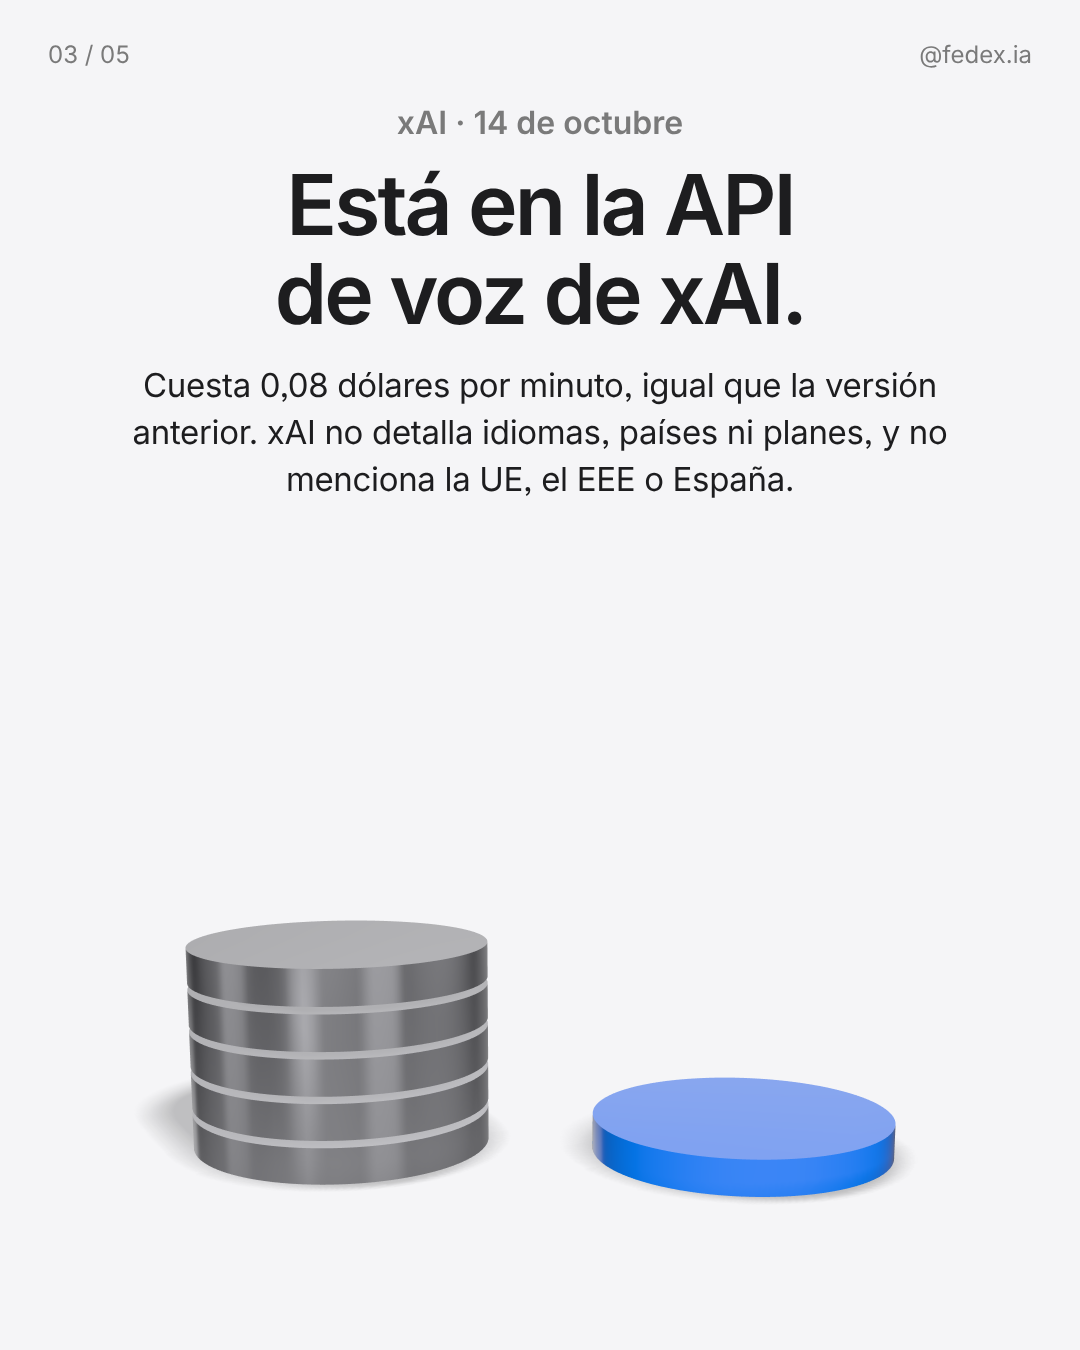
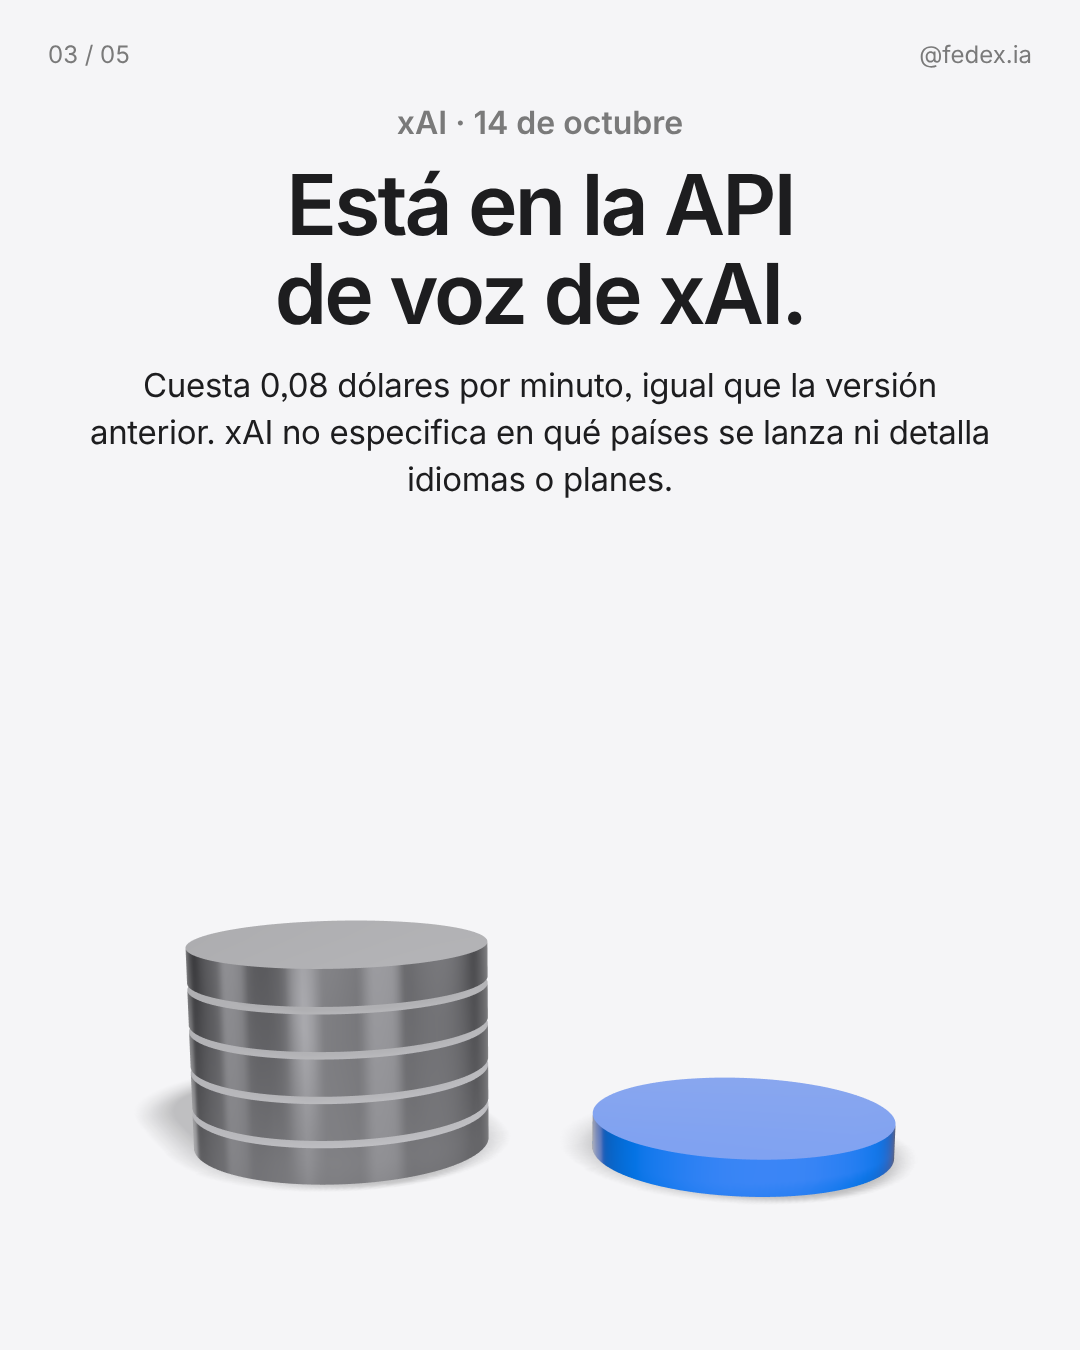
Borrador 2026-10-15: país sin mención de UE; aprobado
Claude-Session: https://claude.ai/code/session_01BkaxxQhKRpXm5dDvsMZEa3

Changed region(s): [[0.0917, 0.3111, 0.9167, 0.3733]]

diff --git a/diario/2026-10-15-diario-grok-voice-3/copy.md b/diario/2026-10-15-diario-grok-voice-3/copy.md
@@ -1,11 +1,11 @@
-Estado: pendiente de aprobación
+Estado: aprobado, pasado a main
 
 # xAI lanza Grok Voice 3.0 (14 de octubre de 2026)
 
 ## Noticia base
 - Fecha del hecho: miércoles 14 de octubre de 2026 (fecha del anuncio oficial en x.ai; la página firma como SpaceXAI).
 - Qué es: Grok Voice 3.0, modelo de voz a voz (escucha y responde con voz).
-- Disponibilidad: ya disponible en la Voice Agent API, 0,08 USD por minuto (igual que 2.0). También alimenta el modo de voz de Grok Bot y los autos Tesla. Las apps con el alias grok-voice-latest pasaron solas a 3.0. xAI no detalla idiomas, países ni planes y no menciona la UE, el EEE ni España.
+- Disponibilidad: ya disponible en la Voice Agent API, 0,08 USD por minuto (igual que 2.0). También alimenta el modo de voz de Grok Bot y los autos Tesla. Las apps con el alias grok-voice-latest pasaron solas a 3.0. xAI no especifica en qué países se lanza ni detalla idiomas o planes.
 - Oficial: https://x.ai/news/grok-voice-3
 - Prensa: https://www.iclarified.com/102831/grok-voice-30-launches-with-improved-call-handling-and-sub-second-latency (nota del 15/10; no encontré nota de The Verge, TechCrunch ni Reuters)
 
@@ -16,16 +16,16 @@ Estado: pendiente de aprobación
 ## Slides
 1. Portada (blanco). Hablarle a una IA ya cuesta centavos. Bajada: xAI lanzó Grok Voice 3.0, un modelo de voz. Qué hace, dónde está y cuánto cuesta. Pastillas: Grok Voice 3.0 / Desliza →. Objeto: esfera perla con anillo azul y cubo plata. Alt: Ilustración 3D de una esfera perla rodeada por un anillo azul, junto a un cubo plata. Texto: Hablarle a una IA ya cuesta centavos.
 2. (oscuro) Grok Voice 3.0 escucha y contesta hablando. Es un modelo de voz a voz: escucha lo que dices y responde con voz. Según xAI, empieza a hablar en 0,81 segundos. Objeto: cinco barras como onda de sonido, la del medio azul. Alt: Ilustración 3D de cinco barras verticales de distinta altura, como una onda de sonido, la del medio azul. Texto: Grok Voice 3.0 escucha y contesta hablando.
-3. (gris) Está en la API de voz de xAI. Cuesta 0,08 dólares por minuto, igual que la versión anterior. xAI no detalla idiomas, países ni planes, y no menciona la UE, el EEE o España. Objeto: pila de discos plata y un disco azul. Alt: Ilustración 3D de una pila de discos plata junto a un disco azul. Texto: Está en la API de voz de xAI.
+3. (gris) Está en la API de voz de xAI. Cuesta 0,08 dólares por minuto, igual que la versión anterior. xAI no especifica en qué países se lanza ni detalla idiomas o planes. Objeto: pila de discos plata y un disco azul. Alt: Ilustración 3D de una pila de discos plata junto a un disco azul. Texto: Está en la API de voz de xAI.
 4. (oscuro) Sirve para atender llamadas. Un desarrollador puede usarla para que una voz atienda a tus clientes. Según xAI, Starlink resuelve sin personas el 70 % de unas 20.000 llamadas al día. Objeto: parlante cónico azul y esfera perla. Alt: Ilustración 3D de un parlante azul en forma de cono junto a una esfera perla. Texto: Sirve para atender llamadas.
 5. Cierre (blanco). ¿Qué llamadas le dejarías a una voz de IA? Guarda el post para consultar el precio cuando lo necesites. Pastillas: Seguí a @fedex.ia / Guardar. Fuente: x.ai. Objeto: marcador azul y tarjeta perla. Alt: Ilustración 3D de un marcador azul junto a una tarjeta perla. Texto: ¿Qué llamadas le dejarías a una voz de IA?
 
-## Caption para copiar (128 palabras + 5 hashtags)
+## Caption para copiar (125 palabras + 5 hashtags)
 
 ```text
 xAI lanzó el 14 de octubre Grok Voice 3.0, un modelo que escucha y responde hablando. Según la empresa, empieza a hablar en 0,81 segundos y lidera con 86,9 puntos el índice de voz a voz de Artificial Analysis. Esas cifras son de xAI.
 
-Está disponible en su Voice Agent API a 0,08 dólares por minuto, igual que la versión anterior. xAI no detalla idiomas, países ni planes, y no menciona la UE, el EEE ni España. Tampoco gana en todo: en la prueba de atención al cliente τ-Voice, GPT-Live-1 de OpenAI saca más (74,5 contra 71,6).
+Está disponible en su Voice Agent API a 0,08 dólares por minuto, igual que la versión anterior. xAI no especifica en qué países se lanza ni detalla idiomas o planes. Tampoco gana en todo: en la prueba de atención al cliente τ-Voice, GPT-Live-1 de OpenAI saca más (74,5 contra 71,6).
 
 Si tu negocio recibe muchas llamadas, un desarrollador puede conectarla para que una voz atienda consultas. Guarda el post y sigue a @fedex.ia para la noticia de IA de cada día.
 
@@ -63,6 +63,6 @@ Fuentes: x.ai/news/grok-voice-3 (anuncio oficial de xAI) · iclarified.com/10283
 | 0,81 s hasta el primer audio | x.ai/iClarified (gráfico de Artificial Analysis); 2.0 era más rápido (0,70 s). Atribuido a xAI |
 | τ-Voice 71,6 vs 74,5 de GPT-Live-1 | x.ai; iClarified |
 | Starlink: unas 20.000 llamadas/día, 70 % sin humano | Cifra de la empresa, atribuida a xAI; no verificada de forma independiente |
-| Sin idiomas, países, planes ni mención de UE/EEE/España | x.ai; iClarified |
+| No especifica en qué países se lanza ni detalla idiomas o planes | x.ai; iClarified |
 
 Dejé afuera: velocidad «40 % menor que GPT-Live-1» (dato de xAI, redundante), «1 de cada 4 llamadas de ventas termina en compra» y los resultados de EVA-Bench de ServiceNow (no verificados de forma independiente). Candidatas descartadas por fecha: Shopify abre su catálogo a agentes de IA (13/10), Scion de Anthropic (13/10), Higgsfield con GPT-6 Astra (13/10). Figma Specs (14/10): sin anuncio oficial ni disponibilidad a la vista.
